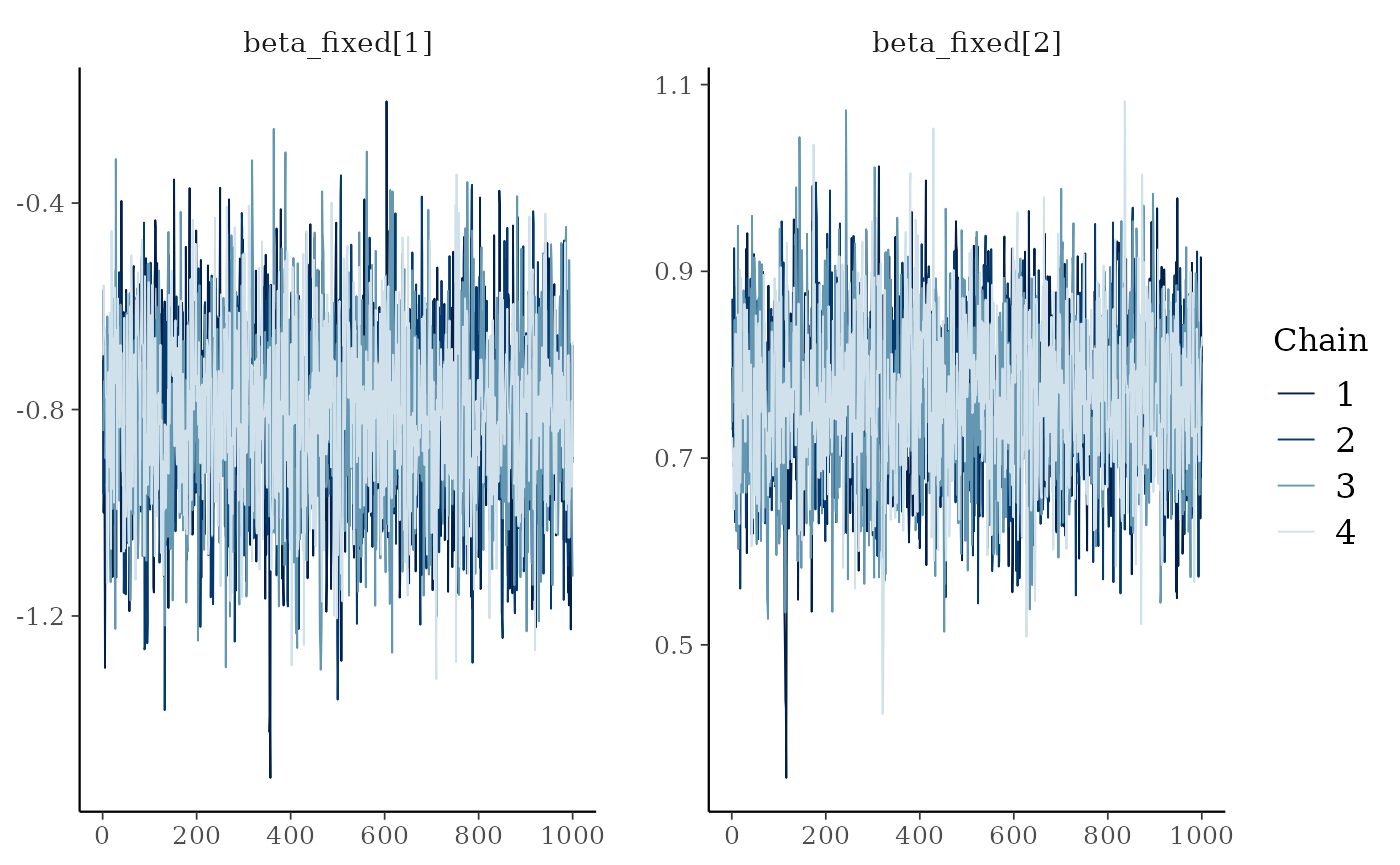
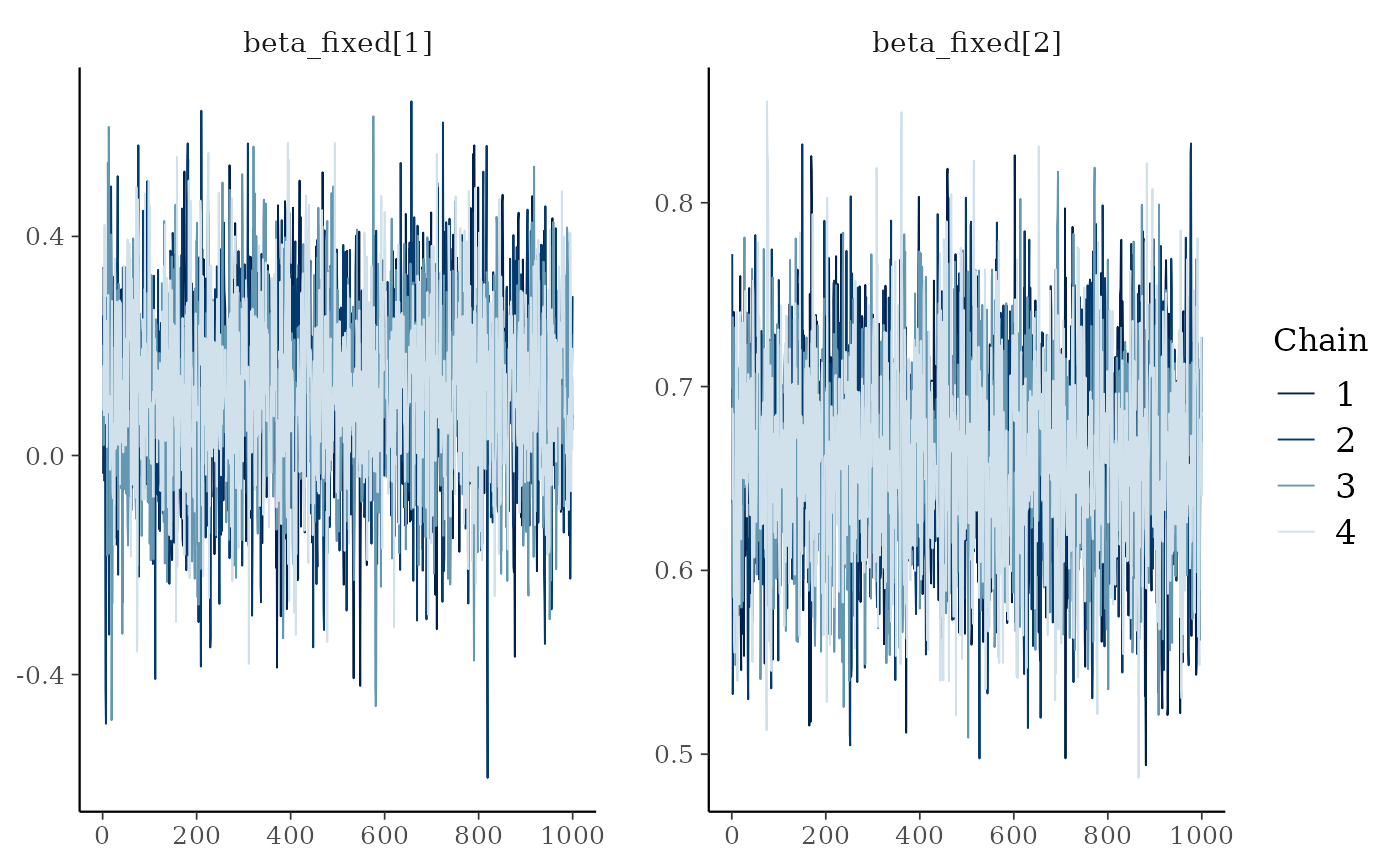
Built site for bisonR: 0.1.0@28a6f0a

diff --git a/articles/getting_started.html b/articles/getting_started.html
@@ -126,12 +126,12 @@
 <span class="va">df</span> <span class="op">&lt;-</span> <span class="va">sim_data</span><span class="op">$</span><span class="va">df_sim</span>
 <span class="fu"><a href="https://rdrr.io/r/utils/head.html" class="external-link">head</a></span><span class="op">(</span><span class="va">df</span><span class="op">)</span>
 <span class="co">#&gt;   event node_1_id node_2_id age_diff    age_1    age_2 location duration</span>
-<span class="co">#&gt; 1     1         1         2  5.43358 25.17864 19.74506        1        1</span>
-<span class="co">#&gt; 2     1         1         2  5.43358 25.17864 19.74506        1        1</span>
-<span class="co">#&gt; 3     1         1         2  5.43358 25.17864 19.74506        1        1</span>
-<span class="co">#&gt; 4     1         1         2  5.43358 25.17864 19.74506        5        1</span>
-<span class="co">#&gt; 5     1         1         2  5.43358 25.17864 19.74506        1        1</span>
-<span class="co">#&gt; 6     1         1         2  5.43358 25.17864 19.74506        2        1</span></code></pre></div>
+<span class="co">#&gt; 1     0         1         2 -7.15693 16.46282 23.61975        1        1</span>
+<span class="co">#&gt; 2     0         1         2 -7.15693 16.46282 23.61975        4        1</span>
+<span class="co">#&gt; 3     0         1         2 -7.15693 16.46282 23.61975        5        1</span>
+<span class="co">#&gt; 4     0         1         2 -7.15693 16.46282 23.61975        3        1</span>
+<span class="co">#&gt; 5     0         1         2 -7.15693 16.46282 23.61975        2        1</span>
+<span class="co">#&gt; 6     0         1         2 -7.15693 16.46282 23.61975        1        1</span></code></pre></div>
 </div>
 <div class="section level2">
 <h2 id="edge-models">Edge Models<a class="anchor" aria-label="anchor" href="#edge-models"></a>
@@ -200,14 +200,14 @@
 <span class="co">#&gt; </span>
 <span class="co">#&gt; Running MCMC with 4 parallel chains...</span>
 <span class="co">#&gt; </span>
-<span class="co">#&gt; Chain 1 finished in 1.9 seconds.</span>
-<span class="co">#&gt; Chain 2 finished in 1.8 seconds.</span>
-<span class="co">#&gt; Chain 4 finished in 1.7 seconds.</span>
-<span class="co">#&gt; Chain 3 finished in 1.8 seconds.</span>
+<span class="co">#&gt; Chain 1 finished in 2.3 seconds.</span>
+<span class="co">#&gt; Chain 2 finished in 2.3 seconds.</span>
+<span class="co">#&gt; Chain 4 finished in 2.3 seconds.</span>
+<span class="co">#&gt; Chain 3 finished in 2.3 seconds.</span>
 <span class="co">#&gt; </span>
 <span class="co">#&gt; All 4 chains finished successfully.</span>
-<span class="co">#&gt; Mean chain execution time: 1.8 seconds.</span>
-<span class="co">#&gt; Total execution time: 2.1 seconds.</span></code></pre></div>
+<span class="co">#&gt; Mean chain execution time: 2.3 seconds.</span>
+<span class="co">#&gt; Total execution time: 2.6 seconds.</span></code></pre></div>
 <p>Depending on your dataset this can take anywhere between a few tenths of a second and several hours. In particular if you have a large dataset and no observation-level predictors, it’s probably a good idea to use the aggregated version of the model where all observations per dyad are collapsed to a single row. This will speed up model fitting considerably.</p>
 <p>Once the model has fitted, we need to check that the MCMC algorithm has behaved correctly. Usually if there’s a major problem, the <code><a href="../reference/edge_model.html">edge_model()</a></code> function itself will have triggered warning messages above. But even if everything is silent, it’s still worth checking the traceplots to check the MCMC chains have converged. The chains should be well-mixed and look something like a fuzzy caterpillar. We can check for this using the <code><a href="../reference/plot_trace.html">plot_trace()</a></code> function:</p>
 <div class="sourceCode" id="cb7"><pre class="downlit sourceCode r">
@@ -228,51 +228,51 @@
 <span class="co">#&gt; Directed: FALSE</span>
 <span class="co">#&gt; === Edge list summary ===</span>
 <span class="co">#&gt;          median    5%   95%</span>
-<span class="co">#&gt; 1 &lt;-&gt; 2   0.951 0.731 0.997</span>
-<span class="co">#&gt; 1 &lt;-&gt; 3   0.925 0.554 0.996</span>
-<span class="co">#&gt; 2 &lt;-&gt; 3   0.174 0.047 0.388</span>
-<span class="co">#&gt; 1 &lt;-&gt; 4   0.664 0.324 0.902</span>
-<span class="co">#&gt; 2 &lt;-&gt; 4   0.077 0.014 0.223</span>
-<span class="co">#&gt; 3 &lt;-&gt; 4   0.074 0.015 0.215</span>
-<span class="co">#&gt; 1 &lt;-&gt; 5   0.669 0.391 0.872</span>
-<span class="co">#&gt; 2 &lt;-&gt; 5   0.033 0.002 0.178</span>
-<span class="co">#&gt; 3 &lt;-&gt; 5   0.077 0.014 0.228</span>
-<span class="co">#&gt; 4 &lt;-&gt; 5   0.535 0.321 0.745</span>
-<span class="co">#&gt; 1 &lt;-&gt; 6   0.738 0.557 0.875</span>
-<span class="co">#&gt; 2 &lt;-&gt; 6   0.028 0.002 0.137</span>
-<span class="co">#&gt; 3 &lt;-&gt; 6   0.126 0.022 0.370</span>
-<span class="co">#&gt; 4 &lt;-&gt; 6   0.031 0.002 0.154</span>
-<span class="co">#&gt; 5 &lt;-&gt; 6   0.344 0.067 0.768</span>
-<span class="co">#&gt; 1 &lt;-&gt; 7   0.979 0.904 0.998</span>
-<span class="co">#&gt; 2 &lt;-&gt; 7   0.335 0.174 0.527</span>
-<span class="co">#&gt; 3 &lt;-&gt; 7   0.768 0.551 0.916</span>
-<span class="co">#&gt; 4 &lt;-&gt; 7   0.823 0.644 0.928</span>
-<span class="co">#&gt; 5 &lt;-&gt; 7   0.502 0.203 0.812</span>
-<span class="co">#&gt; 6 &lt;-&gt; 7   0.187 0.007 0.778</span>
-<span class="co">#&gt; 1 &lt;-&gt; 8   0.799 0.555 0.943</span>
-<span class="co">#&gt; 2 &lt;-&gt; 8   0.058 0.004 0.308</span>
-<span class="co">#&gt; 3 &lt;-&gt; 8   0.112 0.022 0.324</span>
-<span class="co">#&gt; 4 &lt;-&gt; 8   0.378 0.147 0.661</span>
-<span class="co">#&gt; 5 &lt;-&gt; 8   0.149 0.044 0.334</span>
-<span class="co">#&gt; 6 &lt;-&gt; 8   0.665 0.225 0.944</span>
-<span class="co">#&gt; 7 &lt;-&gt; 8   0.023 0.002 0.114</span>
-<span class="co">#&gt; 1 &lt;-&gt; 9   0.861 0.679 0.961</span>
-<span class="co">#&gt; 2 &lt;-&gt; 9   0.037 0.002 0.199</span>
-<span class="co">#&gt; 3 &lt;-&gt; 9   0.667 0.339 0.902</span>
-<span class="co">#&gt; 4 &lt;-&gt; 9   0.224 0.061 0.505</span>
-<span class="co">#&gt; 5 &lt;-&gt; 9   0.087 0.005 0.459</span>
-<span class="co">#&gt; 6 &lt;-&gt; 9   0.236 0.100 0.421</span>
-<span class="co">#&gt; 7 &lt;-&gt; 9   0.110 0.006 0.590</span>
-<span class="co">#&gt; 8 &lt;-&gt; 9   0.831 0.234 0.992</span>
-<span class="co">#&gt; 1 &lt;-&gt; 10  0.918 0.553 0.996</span>
-<span class="co">#&gt; 2 &lt;-&gt; 10  0.103 0.005 0.600</span>
-<span class="co">#&gt; 3 &lt;-&gt; 10  0.084 0.004 0.449</span>
-<span class="co">#&gt; 4 &lt;-&gt; 10  0.122 0.024 0.348</span>
-<span class="co">#&gt; 5 &lt;-&gt; 10  0.096 0.017 0.274</span>
-<span class="co">#&gt; 6 &lt;-&gt; 10  0.709 0.404 0.909</span>
-<span class="co">#&gt; 7 &lt;-&gt; 10  0.121 0.035 0.292</span>
-<span class="co">#&gt; 8 &lt;-&gt; 10  0.110 0.006 0.560</span>
-<span class="co">#&gt; 9 &lt;-&gt; 10  0.381 0.194 0.601</span></code></pre></div>
+<span class="co">#&gt; 1 &lt;-&gt; 2   0.024 0.002 0.121</span>
+<span class="co">#&gt; 1 &lt;-&gt; 3   0.073 0.014 0.221</span>
+<span class="co">#&gt; 2 &lt;-&gt; 3   0.963 0.807 0.997</span>
+<span class="co">#&gt; 1 &lt;-&gt; 4   0.021 0.002 0.105</span>
+<span class="co">#&gt; 2 &lt;-&gt; 4   0.771 0.508 0.935</span>
+<span class="co">#&gt; 3 &lt;-&gt; 4   0.042 0.003 0.216</span>
+<span class="co">#&gt; 1 &lt;-&gt; 5   0.056 0.003 0.320</span>
+<span class="co">#&gt; 2 &lt;-&gt; 5   0.974 0.865 0.998</span>
+<span class="co">#&gt; 3 &lt;-&gt; 5   0.501 0.262 0.739</span>
+<span class="co">#&gt; 4 &lt;-&gt; 5   0.979 0.891 0.998</span>
+<span class="co">#&gt; 1 &lt;-&gt; 6   0.720 0.532 0.864</span>
+<span class="co">#&gt; 2 &lt;-&gt; 6   0.965 0.820 0.998</span>
+<span class="co">#&gt; 3 &lt;-&gt; 6   0.945 0.683 0.997</span>
+<span class="co">#&gt; 4 &lt;-&gt; 6   0.941 0.684 0.996</span>
+<span class="co">#&gt; 5 &lt;-&gt; 6   0.917 0.549 0.996</span>
+<span class="co">#&gt; 1 &lt;-&gt; 7   0.045 0.003 0.245</span>
+<span class="co">#&gt; 2 &lt;-&gt; 7   0.697 0.433 0.886</span>
+<span class="co">#&gt; 3 &lt;-&gt; 7   0.178 0.007 0.779</span>
+<span class="co">#&gt; 4 &lt;-&gt; 7   0.453 0.239 0.685</span>
+<span class="co">#&gt; 5 &lt;-&gt; 7   0.252 0.091 0.485</span>
+<span class="co">#&gt; 6 &lt;-&gt; 7   0.050 0.003 0.266</span>
+<span class="co">#&gt; 1 &lt;-&gt; 8   0.181 0.008 0.787</span>
+<span class="co">#&gt; 2 &lt;-&gt; 8   0.963 0.806 0.997</span>
+<span class="co">#&gt; 3 &lt;-&gt; 8   0.973 0.866 0.998</span>
+<span class="co">#&gt; 4 &lt;-&gt; 8   0.956 0.756 0.997</span>
+<span class="co">#&gt; 5 &lt;-&gt; 8   0.974 0.860 0.998</span>
+<span class="co">#&gt; 6 &lt;-&gt; 8   0.050 0.003 0.287</span>
+<span class="co">#&gt; 7 &lt;-&gt; 8   0.965 0.823 0.997</span>
+<span class="co">#&gt; 1 &lt;-&gt; 9   0.032 0.002 0.166</span>
+<span class="co">#&gt; 2 &lt;-&gt; 9   0.731 0.524 0.885</span>
+<span class="co">#&gt; 3 &lt;-&gt; 9   0.025 0.002 0.126</span>
+<span class="co">#&gt; 4 &lt;-&gt; 9   0.862 0.679 0.963</span>
+<span class="co">#&gt; 5 &lt;-&gt; 9   0.497 0.152 0.838</span>
+<span class="co">#&gt; 6 &lt;-&gt; 9   0.021 0.002 0.106</span>
+<span class="co">#&gt; 7 &lt;-&gt; 9   0.664 0.400 0.871</span>
+<span class="co">#&gt; 8 &lt;-&gt; 9   0.022 0.002 0.106</span>
+<span class="co">#&gt; 1 &lt;-&gt; 10  0.137 0.024 0.390</span>
+<span class="co">#&gt; 2 &lt;-&gt; 10  0.956 0.763 0.997</span>
+<span class="co">#&gt; 3 &lt;-&gt; 10  0.266 0.128 0.450</span>
+<span class="co">#&gt; 4 &lt;-&gt; 10  0.752 0.555 0.889</span>
+<span class="co">#&gt; 5 &lt;-&gt; 10  0.182 0.033 0.476</span>
+<span class="co">#&gt; 6 &lt;-&gt; 10  0.022 0.002 0.103</span>
+<span class="co">#&gt; 7 &lt;-&gt; 10  0.824 0.221 0.992</span>
+<span class="co">#&gt; 8 &lt;-&gt; 10  0.034 0.002 0.177</span>
+<span class="co">#&gt; 9 &lt;-&gt; 10  0.749 0.554 0.892</span></code></pre></div>
 <p>It can be hard to get an intuitive idea for what’s going on looking only at a summary table, so this is where it can be useful to visualise the network too. The <code><a href="../reference/plot_network.html">plot_network()</a></code> function does this for BISoN edge weight models, where uncertainty is shown on edge weights. Uncertainty is visualised by showing the lower and upper bounds as overlapping edges in the network.</p>
 <div class="sourceCode" id="cb10"><pre class="downlit sourceCode r">
 <code class="sourceCode R"><span class="fu"><a href="../reference/plot_network.html">plot_network</a></span><span class="op">(</span><span class="va">fit_edge</span>, lwd<span class="op">=</span><span class="fl">5</span><span class="op">)</span></code></pre></div>
@@ -313,34 +313,34 @@
 <span class="co">#&gt; Chain 2 Iteration:    1 / 2000 [  0%]  (Warmup) </span>
 <span class="co">#&gt; Chain 3 Iteration:    1 / 2000 [  0%]  (Warmup) </span>
 <span class="co">#&gt; Chain 4 Iteration:    1 / 2000 [  0%]  (Warmup) </span>
-<span class="co">#&gt; Chain 1 Iteration:  500 / 2000 [ 25%]  (Warmup) </span>
 <span class="co">#&gt; Chain 2 Iteration:  500 / 2000 [ 25%]  (Warmup) </span>
+<span class="co">#&gt; Chain 1 Iteration:  500 / 2000 [ 25%]  (Warmup) </span>
 <span class="co">#&gt; Chain 3 Iteration:  500 / 2000 [ 25%]  (Warmup) </span>
 <span class="co">#&gt; Chain 4 Iteration:  500 / 2000 [ 25%]  (Warmup) </span>
-<span class="co">#&gt; Chain 1 Iteration: 1000 / 2000 [ 50%]  (Warmup) </span>
-<span class="co">#&gt; Chain 1 Iteration: 1001 / 2000 [ 50%]  (Sampling) </span>
 <span class="co">#&gt; Chain 2 Iteration: 1000 / 2000 [ 50%]  (Warmup) </span>
 <span class="co">#&gt; Chain 2 Iteration: 1001 / 2000 [ 50%]  (Sampling) </span>
+<span class="co">#&gt; Chain 1 Iteration: 1000 / 2000 [ 50%]  (Warmup) </span>
+<span class="co">#&gt; Chain 1 Iteration: 1001 / 2000 [ 50%]  (Sampling) </span>
 <span class="co">#&gt; Chain 3 Iteration: 1000 / 2000 [ 50%]  (Warmup) </span>
 <span class="co">#&gt; Chain 3 Iteration: 1001 / 2000 [ 50%]  (Sampling) </span>
 <span class="co">#&gt; Chain 4 Iteration: 1000 / 2000 [ 50%]  (Warmup) </span>
 <span class="co">#&gt; Chain 4 Iteration: 1001 / 2000 [ 50%]  (Sampling) </span>
-<span class="co">#&gt; Chain 1 Iteration: 1500 / 2000 [ 75%]  (Sampling) </span>
 <span class="co">#&gt; Chain 2 Iteration: 1500 / 2000 [ 75%]  (Sampling) </span>
+<span class="co">#&gt; Chain 1 Iteration: 1500 / 2000 [ 75%]  (Sampling) </span>
 <span class="co">#&gt; Chain 3 Iteration: 1500 / 2000 [ 75%]  (Sampling) </span>
 <span class="co">#&gt; Chain 4 Iteration: 1500 / 2000 [ 75%]  (Sampling) </span>
-<span class="co">#&gt; Chain 1 Iteration: 2000 / 2000 [100%]  (Sampling) </span>
 <span class="co">#&gt; Chain 2 Iteration: 2000 / 2000 [100%]  (Sampling) </span>
-<span class="co">#&gt; Chain 4 Iteration: 2000 / 2000 [100%]  (Sampling) </span>
-<span class="co">#&gt; Chain 1 finished in 2.6 seconds.</span>
-<span class="co">#&gt; Chain 2 finished in 2.7 seconds.</span>
-<span class="co">#&gt; Chain 4 finished in 2.6 seconds.</span>
 <span class="co">#&gt; Chain 3 Iteration: 2000 / 2000 [100%]  (Sampling) </span>
-<span class="co">#&gt; Chain 3 finished in 2.7 seconds.</span>
+<span class="co">#&gt; Chain 2 finished in 2.8 seconds.</span>
+<span class="co">#&gt; Chain 3 finished in 2.8 seconds.</span>
+<span class="co">#&gt; Chain 1 Iteration: 2000 / 2000 [100%]  (Sampling) </span>
+<span class="co">#&gt; Chain 4 Iteration: 2000 / 2000 [100%]  (Sampling) </span>
+<span class="co">#&gt; Chain 1 finished in 2.9 seconds.</span>
+<span class="co">#&gt; Chain 4 finished in 2.9 seconds.</span>
 <span class="co">#&gt; </span>
 <span class="co">#&gt; All 4 chains finished successfully.</span>
-<span class="co">#&gt; Mean chain execution time: 2.7 seconds.</span>
-<span class="co">#&gt; Total execution time: 2.9 seconds.</span></code></pre></div>
+<span class="co">#&gt; Mean chain execution time: 2.8 seconds.</span>
+<span class="co">#&gt; Total execution time: 3.0 seconds.</span></code></pre></div>
 <p>Like last time we want to check that our model has fit properly and makes good predictions. This can be done in exactly the same way as last time:</p>
 <div class="sourceCode" id="cb13"><pre class="downlit sourceCode r">
 <code class="sourceCode R"><span class="fu"><a href="../reference/plot_trace.html">plot_trace</a></span><span class="op">(</span><span class="va">fit_dyadic</span><span class="op">)</span></code></pre></div>
@@ -355,9 +355,9 @@
 <span class="co">#&gt; Formula: dyad(node_1_id, node_2_id) ~ age_diff</span>
 <span class="co">#&gt; Number of dyads: 45</span>
 <span class="co">#&gt; === Coefficient summary ===                </span>
-<span class="co">#&gt; variable            50%     5%   95%</span>
-<span class="co">#&gt;   intercept      -0.809 -1.085 -0.54</span>
-<span class="co">#&gt;   fixed_age_diff  0.765  0.630  0.90</span></code></pre></div>
+<span class="co">#&gt; variable           50%     5%   95%</span>
+<span class="co">#&gt;   intercept      0.121 -0.157 0.386</span>
+<span class="co">#&gt;   fixed_age_diff 0.663  0.573 0.752</span></code></pre></div>
 <p>Now we’ve seen how to fit a dyadic regression, the next common type of analysis is nodal regression.</p>
 </div>
 <div class="section level2">
@@ -373,16 +373,16 @@
   <span class="fu"><a href="https://dplyr.tidyverse.org/reference/distinct.html" class="external-link">distinct</a></span><span class="op">(</span><span class="va">node_id</span>, <span class="va">age</span><span class="op">)</span>
 <span class="va">df_nodal</span>
 <span class="co">#&gt;    node_id      age</span>
-<span class="co">#&gt; 1        1 25.17864</span>
-<span class="co">#&gt; 2        2 19.74506</span>
-<span class="co">#&gt; 3        3 21.21624</span>
-<span class="co">#&gt; 4        4 22.16313</span>
-<span class="co">#&gt; 5        5 22.13026</span>
-<span class="co">#&gt; 6        6 23.00912</span>
-<span class="co">#&gt; 7        7 19.91651</span>
-<span class="co">#&gt; 8        8 22.59499</span>
-<span class="co">#&gt; 9        9 22.16269</span>
-<span class="co">#&gt; 10      10 22.41496</span></code></pre></div>
+<span class="co">#&gt; 1        1 16.46282</span>
+<span class="co">#&gt; 2        2 23.61975</span>
+<span class="co">#&gt; 3        3 18.42107</span>
+<span class="co">#&gt; 4        4 22.04367</span>
+<span class="co">#&gt; 5        5 19.03551</span>
+<span class="co">#&gt; 6        6 15.96567</span>
+<span class="co">#&gt; 7        7 21.12933</span>
+<span class="co">#&gt; 8        8 16.44320</span>
+<span class="co">#&gt; 9        9 21.58126</span>
+<span class="co">#&gt; 10      10 20.56300</span></code></pre></div>
 <p>Priors can be set in the exact same way as for the <code><a href="../reference/dyadic_regression.html">dyadic_regression()</a></code> function:</p>
 <div class="sourceCode" id="cb17"><pre class="downlit sourceCode r">
 <code class="sourceCode R"><span class="va">priors</span> <span class="op">&lt;-</span> <span class="fu"><a href="../reference/get_default_priors.html">get_default_priors</a></span><span class="op">(</span><span class="st">"nodal_regression"</span><span class="op">)</span>
@@ -404,43 +404,40 @@
 <code class="sourceCode R"><span class="va">fit_nodal</span> <span class="op">&lt;-</span> <span class="fu"><a href="../reference/nodal_regression.html">nodal_regression</a></span><span class="op">(</span><span class="fu"><a href="https://rdrr.io/pkg/igraph/man/strength.html" class="external-link">strength</a></span><span class="op">(</span><span class="va">node_id</span><span class="op">)</span> <span class="op">~</span> <span class="va">age</span>, <span class="va">fit_edge</span>, <span class="va">df_nodal</span>, priors<span class="op">=</span><span class="va">priors</span><span class="op">)</span>
 <span class="co">#&gt; Running MCMC with 4 parallel chains...</span>
 <span class="co">#&gt; </span>
-<span class="co">#&gt; Chain 1 Iteration:    1 / 2000 [  0%]  (Warmup)</span>
-<span class="co">#&gt; Chain 1 Informational Message: The current Metropolis proposal is about to be rejected because of the following issue:</span>
-<span class="co">#&gt; Chain 1 Exception: multi_normal_lpdf: LDLT_Factor of covariance parameter is not positive definite.  last conditional variance is -nan. (in '/tmp/RtmpYn89lw/model-38ca7957e343.stan', line 34, column 2 to column 94)</span>
-<span class="co">#&gt; Chain 1 If this warning occurs sporadically, such as for highly constrained variable types like covariance matrices, then the sampler is fine,</span>
-<span class="co">#&gt; Chain 1 but if this warning occurs often then your model may be either severely ill-conditioned or misspecified.</span>
-<span class="co">#&gt; Chain 1</span>
+<span class="co">#&gt; Chain 1 Iteration:    1 / 2000 [  0%]  (Warmup) </span>
 <span class="co">#&gt; Chain 2 Iteration:    1 / 2000 [  0%]  (Warmup) </span>
 <span class="co">#&gt; Chain 3 Iteration:    1 / 2000 [  0%]  (Warmup) </span>
 <span class="co">#&gt; Chain 4 Iteration:    1 / 2000 [  0%]  (Warmup) </span>
 <span class="co">#&gt; Chain 1 Iteration:  500 / 2000 [ 25%]  (Warmup) </span>
 <span class="co">#&gt; Chain 2 Iteration:  500 / 2000 [ 25%]  (Warmup) </span>
-<span class="co">#&gt; Chain 3 Iteration:  500 / 2000 [ 25%]  (Warmup) </span>
 <span class="co">#&gt; Chain 4 Iteration:  500 / 2000 [ 25%]  (Warmup) </span>
 <span class="co">#&gt; Chain 1 Iteration: 1000 / 2000 [ 50%]  (Warmup) </span>
 <span class="co">#&gt; Chain 1 Iteration: 1001 / 2000 [ 50%]  (Sampling) </span>
-<span class="co">#&gt; Chain 4 Iteration: 1000 / 2000 [ 50%]  (Warmup) </span>
-<span class="co">#&gt; Chain 4 Iteration: 1001 / 2000 [ 50%]  (Sampling) </span>
+<span class="co">#&gt; Chain 3 Iteration:  500 / 2000 [ 25%]  (Warmup) </span>
 <span class="co">#&gt; Chain 2 Iteration: 1000 / 2000 [ 50%]  (Warmup) </span>
 <span class="co">#&gt; Chain 2 Iteration: 1001 / 2000 [ 50%]  (Sampling) </span>
 <span class="co">#&gt; Chain 3 Iteration: 1000 / 2000 [ 50%]  (Warmup) </span>
 <span class="co">#&gt; Chain 3 Iteration: 1001 / 2000 [ 50%]  (Sampling) </span>
+<span class="co">#&gt; Chain 4 Iteration: 1000 / 2000 [ 50%]  (Warmup) </span>
+<span class="co">#&gt; Chain 4 Iteration: 1001 / 2000 [ 50%]  (Sampling) </span>
 <span class="co">#&gt; Chain 1 Iteration: 1500 / 2000 [ 75%]  (Sampling) </span>
 <span class="co">#&gt; Chain 4 Iteration: 1500 / 2000 [ 75%]  (Sampling) </span>
+<span class="co">#&gt; Chain 1 Iteration: 2000 / 2000 [100%]  (Sampling) </span>
 <span class="co">#&gt; Chain 2 Iteration: 1500 / 2000 [ 75%]  (Sampling) </span>
 <span class="co">#&gt; Chain 3 Iteration: 1500 / 2000 [ 75%]  (Sampling) </span>
-<span class="co">#&gt; Chain 1 Iteration: 2000 / 2000 [100%]  (Sampling) </span>
-<span class="co">#&gt; Chain 4 Iteration: 2000 / 2000 [100%]  (Sampling) </span>
-<span class="co">#&gt; Chain 1 finished in 0.9 seconds.</span>
-<span class="co">#&gt; Chain 4 finished in 0.9 seconds.</span>
+<span class="co">#&gt; Chain 1 finished in 0.8 seconds.</span>
 <span class="co">#&gt; Chain 2 Iteration: 2000 / 2000 [100%]  (Sampling) </span>
 <span class="co">#&gt; Chain 3 Iteration: 2000 / 2000 [100%]  (Sampling) </span>
+<span class="co">#&gt; Chain 4 Iteration: 2000 / 2000 [100%]  (Sampling) </span>
 <span class="co">#&gt; Chain 2 finished in 0.9 seconds.</span>
 <span class="co">#&gt; Chain 3 finished in 0.9 seconds.</span>
+<span class="co">#&gt; Chain 4 finished in 0.8 seconds.</span>
 <span class="co">#&gt; </span>
 <span class="co">#&gt; All 4 chains finished successfully.</span>
-<span class="co">#&gt; Mean chain execution time: 0.9 seconds.</span>
-<span class="co">#&gt; Total execution time: 1.0 seconds.</span></code></pre></div>
+<span class="co">#&gt; Mean chain execution time: 0.8 seconds.</span>
+<span class="co">#&gt; Total execution time: 0.9 seconds.</span>
+<span class="co">#&gt; Warning: 2 of 4000 (0.0%) transitions ended with a divergence.</span>
+<span class="co">#&gt; See https://mc-stan.org/misc/warnings for details.</span></code></pre></div>
 <p>Once the model has been fitted, we need to employ the same diagnostic checks as last time to ensure the model is reliable. This may seem a little tedious, and it won’t always go smoothly, but it’s a vital part of model fitting that is essential for reliable inferences, even in frequentist statistics.</p>
 <div class="sourceCode" id="cb19"><pre class="downlit sourceCode r">
 <code class="sourceCode R"><span class="fu"><a href="../reference/plot_trace.html">plot_trace</a></span><span class="op">(</span><span class="va">fit_nodal</span><span class="op">)</span></code></pre></div>
@@ -456,8 +453,8 @@
 <span class="co">#&gt; Number of nodes: 10</span>
 <span class="co">#&gt; === Coefficient summary ===           </span>
 <span class="co">#&gt; variable       50%     5%   95%</span>
-<span class="co">#&gt;   intercept -1.676 -5.552 2.318</span>
-<span class="co">#&gt;   fixed_age  0.077 -0.108 0.257</span></code></pre></div>
+<span class="co">#&gt;   intercept -1.784 -5.142 1.816</span>
+<span class="co">#&gt;   fixed_age  0.096 -0.092 0.267</span></code></pre></div>
 </div>
 <div class="section level2">
 <h2 id="conclusion">Conclusion<a class="anchor" aria-label="anchor" href="#conclusion"></a>
